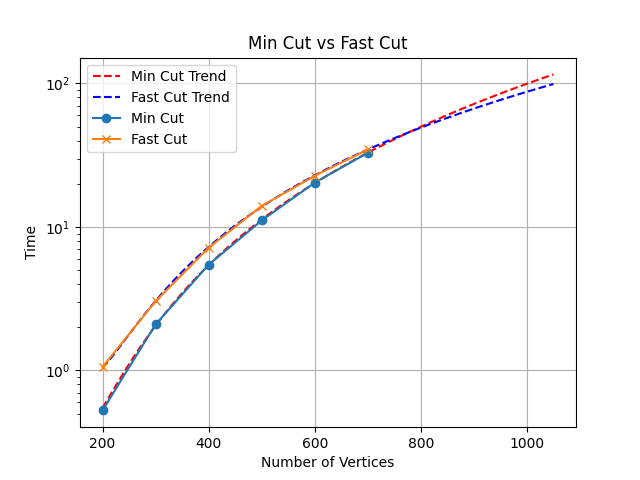
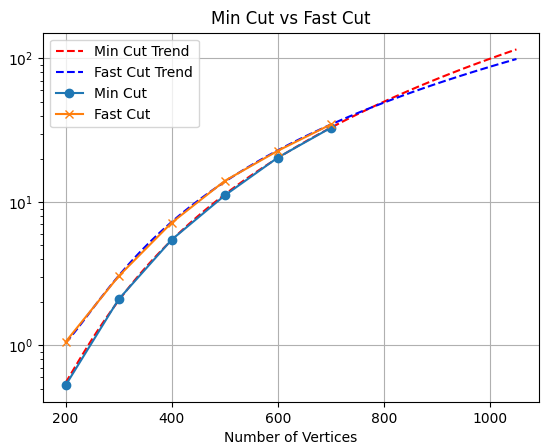
finish report

diff --git a/report/report.tex b/report/report.tex
@@ -18,6 +18,7 @@
 % Page layout
 \geometry{a4paper, margin=1in}
 \setlength{\headheight}{14.49998pt}
+\setlength{\headsep}{0.1in}
 % Header and Footer
 \pagestyle{fancy}
 \fancyhf{}
@@ -687,8 +688,8 @@ Our test environment is $\texttt{-std=C++11}$ on Ubuntu 20.04 using AMD EPYC 745
 
 \begin{figure}[ht]
     \centering
-    \includegraphics[width=0.75\textwidth]{../MinCut/MinCut.png}
-    \caption{Execution time of Min Cut and Fast Cut\ref{alg:fastcut} algorithm}
+    \includegraphics[width=0.7\textwidth]{../MinCut/MinCut.png}
+    \caption{Execution time of Min Cut and Fast Cut \ref{alg:fastcut} algorithm}
     \label{fig:mc}
 \end{figure}
 
@@ -699,7 +700,7 @@ We run the algorithms for 100 times for each $n$ and record the average executio
 As we can see from the figure, when $n$ increases, the execution time of Fast Cut increases slower than Min Cut. When $n\approx 750$, the execution time of Fast Cut first exceeds Min Cut, which shows the advantage of Fast Cut in large-scale graphs.
 
 \subsection{Extensions}
-\subsubsection{Weighted Graph}\
+\subsubsection{Weighted Graph and Directed Graph}\
 
 Weighted graph is a graph where each edge $(u,v)$ has a weight $w_{uv}$. We require the weight to be non-negative, otherwise the Min Cut problem is NP-complete since it can be reduced to Max Cut by a transformation \cite{garey1979computers}.
 
@@ -728,8 +729,6 @@ Using the Weighted Contract algorithm, the edge with larger weight has a higher 
 
 Based on the above lemmas, we still have Theorem \ref{theorem:contract}, thus the Weighted Fast Cut algorithm can be implemented similarly.
 
-\subsubsection{Directed Graph}\
-
 The adjacency matrix of directed graph is not symmetric, so the Min Cut problem is different from the undirected graph.
 
 The cost of cut $(S,V\backslash S)$ in directed graph is also defined as
@@ -737,7 +736,7 @@ The cost of cut $(S,V\backslash S)$ in directed graph is also defined as
     \text{cost}(S,V\backslash S)=\sum_{i\in S, j\in V\backslash S}A_{ij}
 \end{align*}
 
-Introduced by 
+Introduced by J.C. Picard and H.D. Ratliff\cite{picard1975minimum}, the weighted graph can be transformed into an equivalent undirected graph. The Min Cut problem in directed graph can be solved by solving the Min Cut problem in the equivalent undirected graph applying the Fast Cut \ref{alg:fastcut}.
 
 \subsubsection{Improvement using data structure?}\
 
